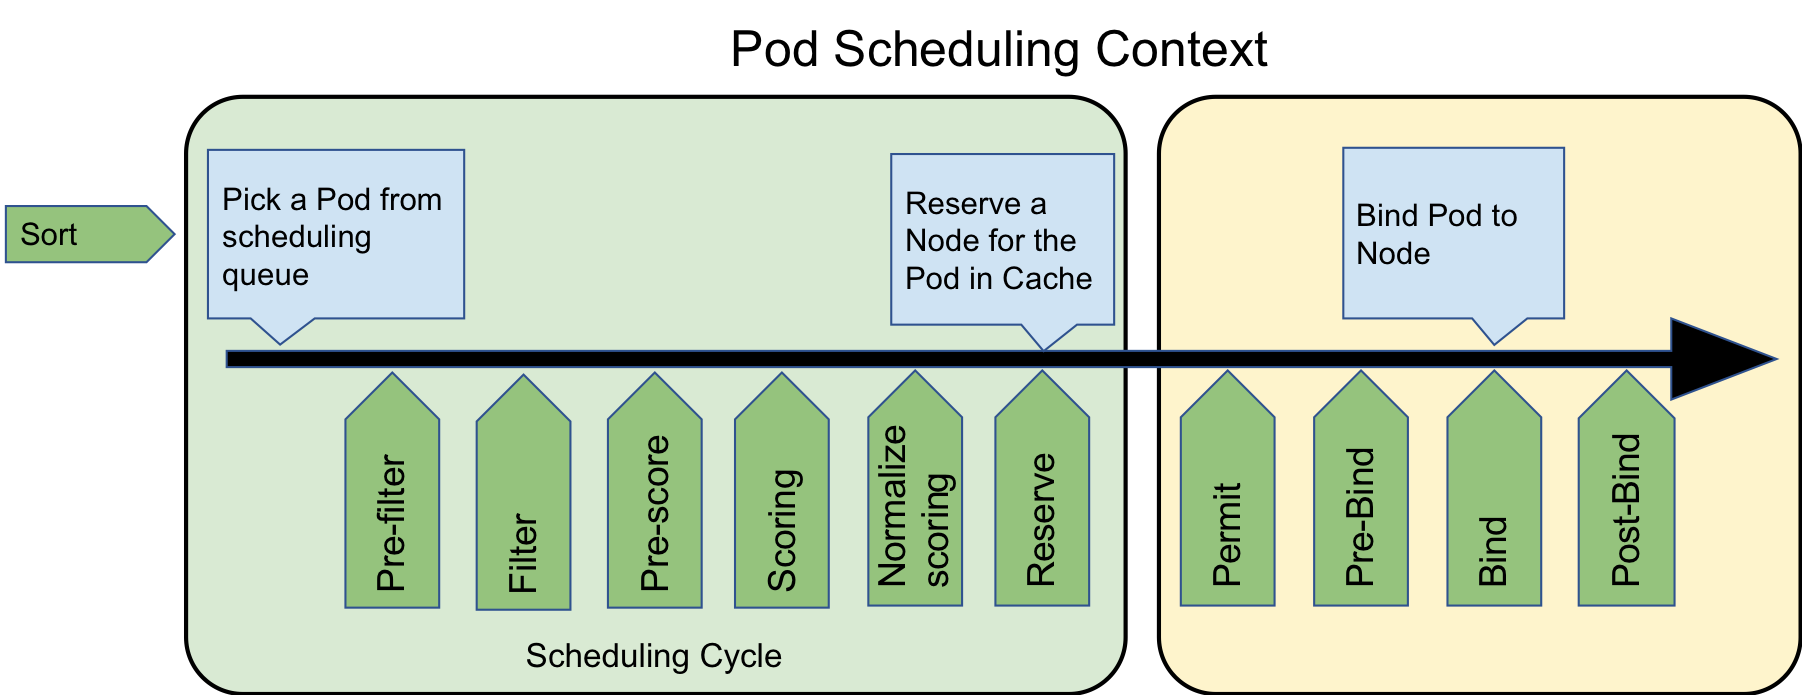
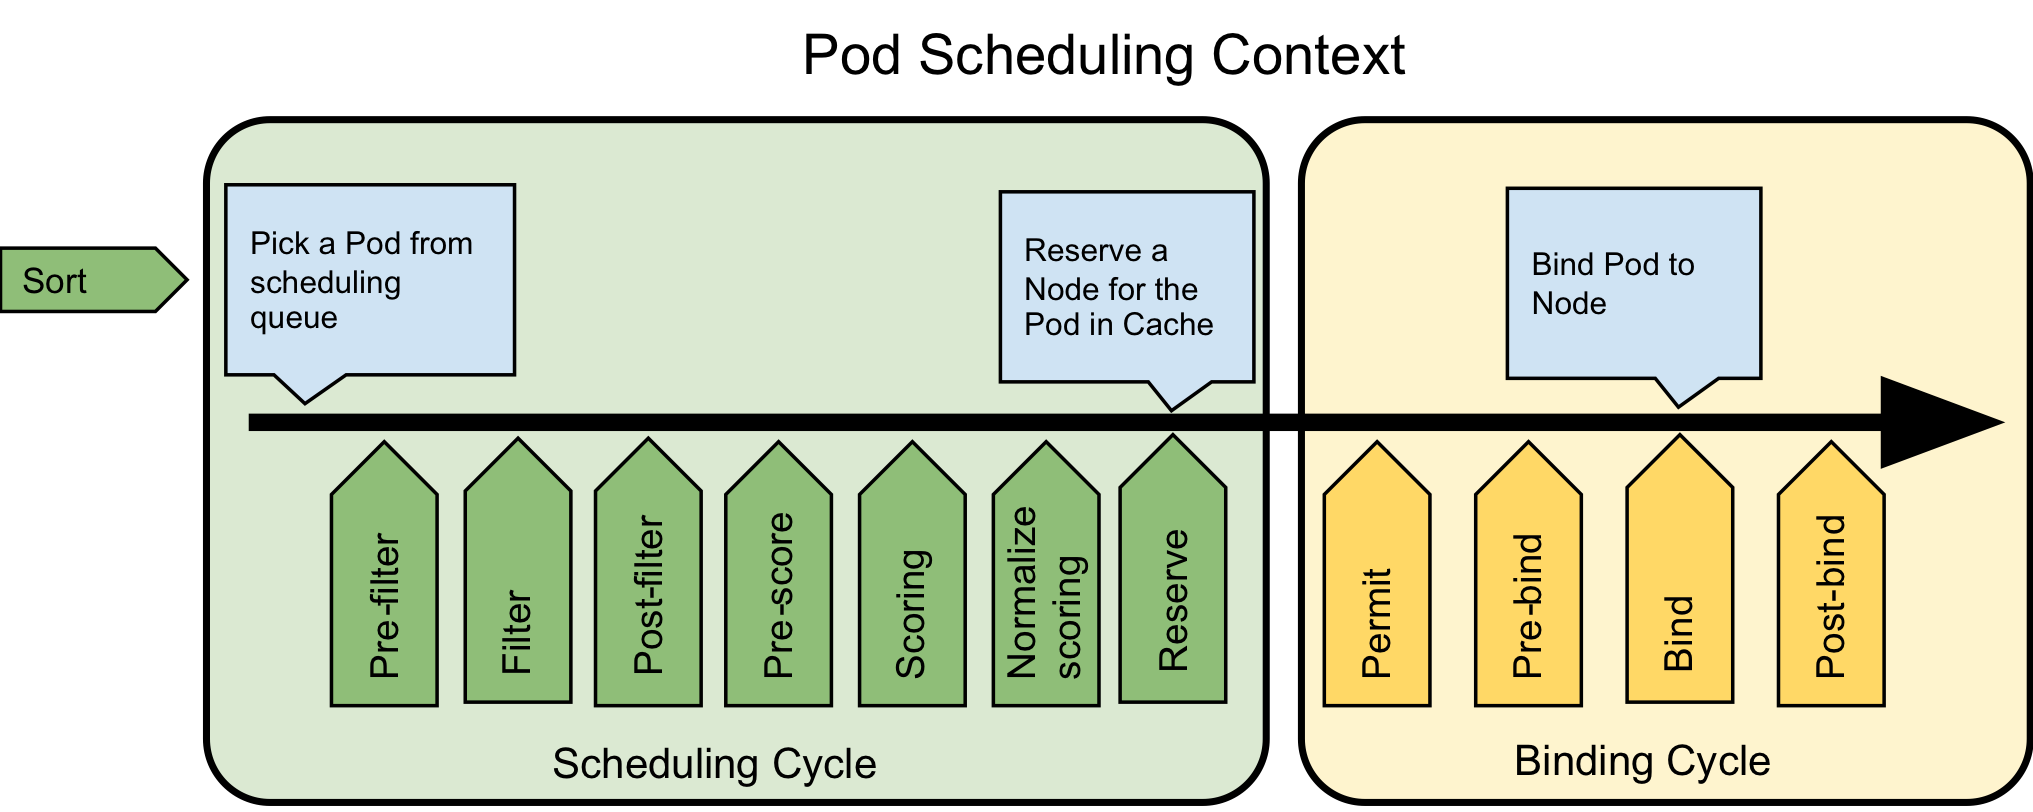
Scheduler Framework: Add new post-filter definition for v1alpha2

Changed region(s): [[0.0, 0.0302, 1.0, 1.0]]

diff --git a/keps/sig-scheduling/20180409-scheduling-framework.md b/keps/sig-scheduling/20180409-scheduling-framework.md
@@ -195,9 +195,19 @@ filter plugin marks the node as infeasible, the remaining plugins will not be
 called for that node. Nodes may be evaluated concurrently, and Filter may be called
 more than once in the same scheduling cycle.
 
-### Pre-Score
+### Post-filter
 
-**Notice: `Pre-Score` is available since v1alpha2, and it's known as `Post-Filter` before this version.**
+- **Before v1alpha2**:
+
+  Before v1alpha2, post-filter plugins just work like pre-score in v1alpha2 (see [Pre-score](#Pre-score) below). Actually, the old post-filter are renamed to pre-score since v1alpha2.
+
+- **Since v1alpha2**:
+
+  Since v1alpha2, post-filter plugins are used to do some filter work with all nodes that passed the [filter](#filter) phase as its input. A post-filter plugin should return an available node list, which is a subset of the input nodes. The scheduler will call post-filter plugins in their configured order, and once a node is eliminated from the returned available nodes, it will not be sent to the next post-filter plugin.
+
+### Pre-score
+
+**Notice: `Pre-score` is available since v1alpha2, and it's known as `post-filter` before this version.**
 
 This is an informational extension point for performing pre-scoring work. Plugins will be called with a list of
 nodes that passed the filtering phase. A plugin may use this data to update internal state or to generate logs/metrics.
@@ -477,6 +487,7 @@ type Plugins struct {
     QueueSort      []Plugin
     PreFilter      []Plugin
     Filter         []Plugin
+    PostFilter     []Plugin
     PreScore       []Plugin
     Score          []Plugin
     Reserve        []Plugin
